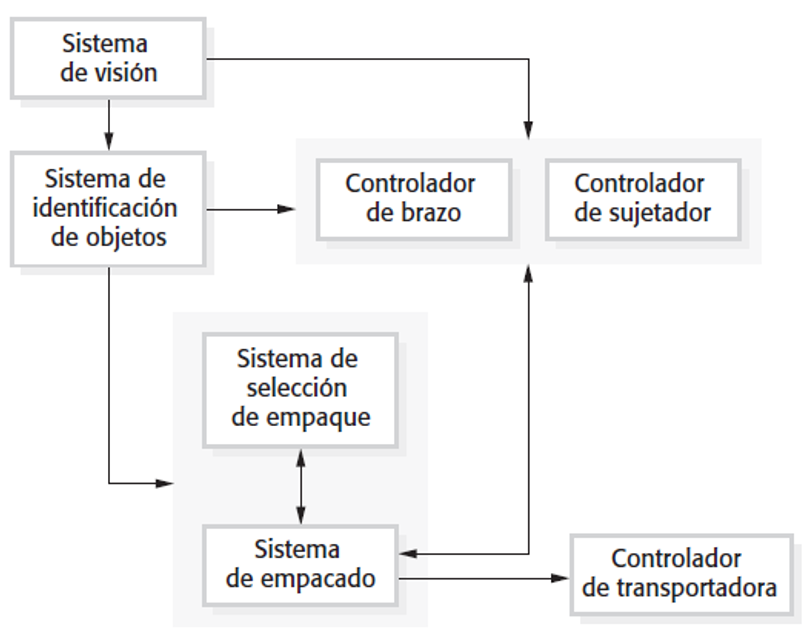
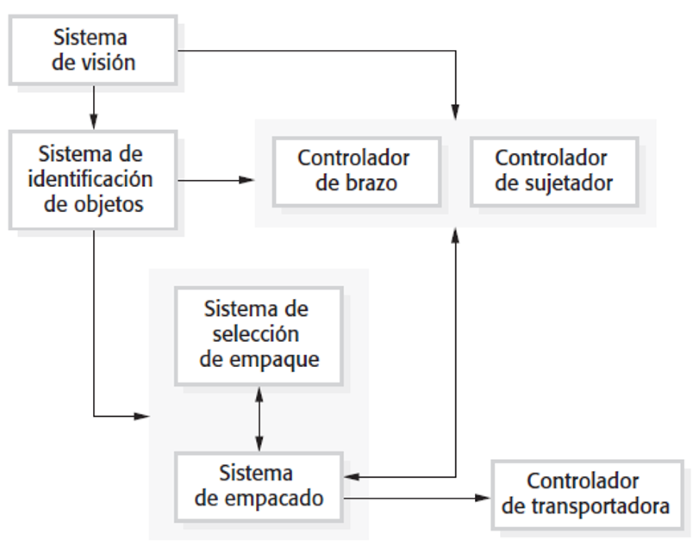
feat: changre presentation number

diff --git a/slides/index.html b/slides/index.html
@@ -182,13 +182,13 @@
         <a href="U10_disenio_arquitectonico.html">Unidad X: Diseño Arquitectónico</a>
         <br />
         <a href="U11_diseno_orientado_objetos.html">Unidad XI: Diseño Orientado a Objetos</a>
+         <br />
+        <a class="practico" href="U11_UML_diagrama_clase.html">
+          Diagrama de Clases
+        </a>
         <br />
         <a class="practico" href="U12_prototipado.html">
           Unidad XII: Diseño y Prototipado
-        </a>
-        <br />
-        <a class="practico" href="U8P_3_UML_diagrama_clase.html">
-          Diagrama de Clases
         </a>
         <br />
         <a href="U13_pruebas_de_software.html">Unidad XIII: Pruebas de Software</a>

diff --git a/slides/U10_disenio_arquitectonico.md b/slides/U10_disenio_arquitectonico.md
@@ -604,6 +604,9 @@ Compiladores o sistemas de procesamiento de datos donde los datos pasan por vari
 
 ---
 ### 8. Arquitectura de Espacio de Nombres
+
+https://medium.com/@mohamedsallam953/fundamentals-of-software-architecture-chapter-15-space-based-architecture-a67a8d4fd856
+
 Diseñada para sistemas altamente escalables y distribuidos, elimina la necesidad de una base de datos central y se basa 
 en "espacios" de datos que son replicados o fragmentados.
 
@@ -882,8 +885,7 @@ Cuando grandes cantidades de datos sean compartidos, el modelo de repositorio co
 - Centralización: Todos los módulos acceden a un repositorio común. 
 - Los datos centralizados permiten una integración sencilla entre componentes.
 - Manera eficaz de compartir grandes cantidades de datos
-- Sub-sistemas no tienen por qué preocuparse de cómo los datos se producen, ejemplo, la gestión centralizada,  
-  copia de seguridad, seguridad, etc
+- Sub-sistemas no tienen por qué preocuparse de cómo los datos se producen, ejemplo, la gestión centralizada, copia de seguridad, seguridad, etc
 - Un modelo a compartir se publica como el esquema del repositorio.
 
 ----
@@ -981,6 +983,7 @@ Es especialmente útil para sistemas donde el comportamiento varía según el es
 ----
 
 ### 19. Arquitectura de Máquina de Estados: Desventajas
+<!-- .slide: style="font-size: 0.80em" -->
 - **Complejidad:** Si hay demasiados estados o transiciones, el sistema puede volverse difícil de gestionar y escalar.
 - **Dificultad en cambios dinámicos:** Cambiar o agregar nuevos estados y transiciones puede ser complicado sin romper la lógica existente.
 - **Rígido:** No es ideal para sistemas donde el comportamiento no se puede describir fácilmente en términos de estados discretos.
@@ -1036,7 +1039,7 @@ El broker recibe solicitudes de los clientes y las envía al servidor adecuado p
 
 ### 21. Arquitectura Broker: Ventajas
 - **Escalabilidad:** Al ser todas las tareas ejecutadas independientes las unas de las otras es posible escalar 
-facilmente el sistema y sólo es necesario disponer de nuevos servidores que puedan procesar las peticiones del broker.
+fácilmente el sistema y sólo es necesario disponer de nuevos servidores que puedan procesar las peticiones del broker.
 - **Rendimiento:** Al ser un gran número de nodos conectados a lo que simplemente actúa como un puente con el cliente 
 el rendimiento puede mantenerse siempre en altas escalas ya que es posible redistribuir si es necesario y procesar 
 grandes cargas de peticiones en momentos de saturación.
@@ -1083,7 +1086,7 @@ fácilmente el sistema de forma que añadir nuevos nodos esclavos se termine tra
 ----
 
 ### 22. Arquitectura Master-Slave: Desventajas
-- **Implementación:** NDebe de existir la posibilidad de dividir el proyecto en módulos que puedan actuar aislados de 
+- **Implementación:** Debe de existir la posibilidad de dividir el proyecto en módulos que puedan actuar aislados de 
 la ejecución principal del programa.
 - **Dependencia:** Fuerte dependencia con el sistema en el que se haya implementado que en muchas ocasiones hace difícil 
 portarlo a otras máquinas distintas.
@@ -1126,7 +1129,7 @@ en términos de energía.
 ----
 
 ### 23. Arquitectura Serverless: Desventajas
-- **Latencia de Arranque en Frío:** cuando no han sido invocadas recientemente hay na latencia inicial, ya que el entorno 
+- **Latencia de Arranque en Frío:** cuando no han sido invocadas recientemente hay una latencia inicial, ya que el entorno 
 de ejecución debe iniciarse desde cero.
 - **Dependencia del Proveedor:** Como AWS, Azure o Google Cloud, dificultando la migración a otro proveedor en el futuro 
 debido a las características específicas y servicios propios de cada plataforma.
@@ -1138,7 +1141,7 @@ debido a las características específicas y servicios propios de cada plataform
 <!-- .slide: style="font-size: 0.90em" -->
 - **Menor Control sobre la Infraestructura:** Se pierde control sobre configuraciones personalizadas, optimizaciones 
 específicas del servidor o la ubicación geográfica precisa de los datos.
-- **Costos Inesperados con Alta Demanda:** Si el uso crece inesperada mente, los costos pueden escalar rápidamente, ya 
+- **Costos Inesperados con Alta Demanda:** Si el uso crece inesperadamente, los costos pueden escalar rápidamente, ya 
 que el modelo serverless cobra por cada invocación o uso de recursos.
 - **Complejidad en la Depuración y Monitoreo:** Puede dificultar el monitoreo y la depuración de problemas, 
 especialmente en sistemas complejos que dependen de múltiples funciones y servicios.
@@ -1187,12 +1190,16 @@ dominio de aplicación. Se desea reusar lo componentes en sistemas similares.
 
 ---
 ### Jerarquía
-Los estilos arquitectónicos pueden clasificarse en jerárquicos y no jerárquicos, según la forma en que organizan y 
-estructuran los componentes dentro del sistema.
+Los estilos arquitectónicos pueden clasificarse en jerárquicos y no jerárquicos, según la forma en que organizan y estructuran los componentes dentro del sistema.
+
+Hay jerarquía cuando encontramos:
+- Varias capas
+- Módulos
+- Dependencias
 
 ----
 
-### Ejercicio
+### Ejercicios
 Clasifica todos los diseños arquitectónicos vistos en clase en Jerarquicos o No Jerarquicos según corresponda.
 
 ----

diff --git a/slides/U11_UML_diagrama_clase.md b/slides/U11_UML_diagrama_clase.md
@@ -12,6 +12,7 @@ Created by <i class="fab fa-telegram"></i>
 ---
 
 ### Diagrama de clases
+<!-- .slide: style="font-size: 0.95em" -->
 El diagrama de clases es un diagrama de **estructura** de UML.
 
 Permite representar la estructura estática de un sistema, mostrando:
@@ -88,7 +89,7 @@ El nombre debería representar claramente el concepto que se está modelando.
 <!-- .slide: style="font-size: 0.90em" --> 
 Los atributos representan información o características que poseen los objetos de una clase.
 
-Por ejemplo, en la clase *Mascota** tenemos los atributos:
+Por ejemplo, en la clase *Mascota* tenemos los atributos:
 - nombre
 - fechaNacimiento
 - especie
@@ -104,10 +105,6 @@ Los atributos permiten describir el estado de los objetos.
 ### 3. Operaciones
 
 Las operaciones representan comportamientos o servicios que una clase puede proporcionar.
-
-Por ejemplo, en la clase *Mascota** tenemos los atributos:
-- nombre: String
-- especie: String
 
 Y tenemos las operaciones:
 - calcularEdad(): int
@@ -168,16 +165,21 @@ Los símbolos más utilizados son:
 ----
 
 ### Visibilidad
+<!-- .slide: style="font-size: 0.95em" --> 
 
-- Nombre: **Persona**
+\- Nombre: **Persona**
 
 **Atributos**
-- dni: String
-- nombre: String
+
+\- dni: String
+
+\- nombre: String
 
 **Operaciones**
-+ obtenerNombre(): String
-+ cambiarNombre(nombre: String): void
+
+\+ obtenerNombre(): String
+
+\+ cambiarNombre(nombre: String): void
 
 La visibilidad está relacionada con el principio de encapsulamiento de la programación orientada a objetos.
 
@@ -255,7 +257,7 @@ Una de ellas es el **análisis nombre/verbo**.
 Se analiza el texto de los requisitos buscando:
 
 1. **Sustantivos o frases nominales:** Pueden surgir clases y atributos
-2. **Verbos o frases verbales:** Pueden surgit operaciones, responsabilidades y relaciones
+2. **Verbos o frases verbales:** Pueden surgir operaciones, responsabilidades y relaciones
 
 ----
 
@@ -489,7 +491,7 @@ Es la relación que habitualmente asociamos con: **es un**
 
 ### Relación: 4. Herencia
 
-En programación orientada a objetos, una jerarquía de generalización se implementa habitualmente mediante herencia.
+En programación orientada a objetos, una **jerarquía de generalización** se implementa habitualmente mediante herencia.
 
 Una subclase hereda características de su superclase y puede:
 - utilizar los atributos y operaciones heredados
@@ -856,7 +858,7 @@ Persona "1" -- "0..*" Mascota : posee
 ----
 
 ### Herencia en PlantUML
-
+<!-- .slide: style="font-size: 0.90em" -->
 La generalización puede representarse mediante:
 ```
 @startuml

diff --git a/slides/U11_diseno_orientado_objetos.md b/slides/U11_diseno_orientado_objetos.md
@@ -33,39 +33,22 @@ Created by <i class="fab fa-telegram"></i>
 <div class="grid-item">
 
 ### Calidad del Software
-* Definición
-* Manejo de la calidad
-* Qué es calidad?
-* Compromiso de Calidad
-* Actividades de manejo de calidad
-* Atributos de la calidad del software
-* Calidad basada en procesos
-* Estándares de Software
-* Importancia de los estándares
-* Problemas con estándares
+* Objetos y Clases
+* Proceso de Diseño Orientado a Objetos
+* Evolución del Diseño
+* UML
+* Diagramas UML
 
 </div>
 <div class="grid-item">
 
-* ISO 9000-9001
-* Certificación ISO
-* Revisión
-* Procedimientos de Revisión
-* Revisiones de Calidad
-* Tipos de Revisiones
-* Inspecciones del programa
-* Métricas de calidad del producto
-* Suposición de métricas
-* Métricas estáticas de productos de software
-* Métricas Orientadas a Objetos
-* Métricas de acoplamiento
-* Madures de las métricas
+
 </div>
 </div>
 
 ---
 ### Objetos y clases
-En diseño orientado a objetos, los ****objetos** representan entidades con estado (atributos) y comportamiento (métodos). 
+En diseño orientado a objetos, los **objetos** representan entidades con estado (atributos) y comportamiento (métodos). 
 Las **clases** son sus plantillas.
 
 Permiten encapsulación, herencia y polimorfismo.
@@ -93,7 +76,7 @@ Posteriormente propusieron un enfoque orientado a objeto para diseñar derivacio
 ----
 
 ### Evolución del diseño
-Actualmente el énfasis al desarrollar software está en la arquitectura y en los patrones de diseño. 
+Actualmente el énfasis al desarrollar software está en la **arquitectura** y en los **patrones de diseño**. 
 
 Se pone cada vez más importancia a los métodos de desarrollo orientado al modelo y a las pruebas, con el objetivo de lograr una mejor modularidad.
 

diff --git a/slides/U12_prototipado.md b/slides/U12_prototipado.md
@@ -231,5 +231,9 @@ Emplee algún programa para confeccionar Wireframes ó y generar un wireflow par
 “Es mejor diseñar la experiencia del usuario que rectificarla.”</h3>
 
 ---
+
+![Prototipado](images/u12-prototipado/prototipado.png)
+
+---
 ## ¿Dudas, Preguntas, Comentarios?
 ![DUDAS](images/pregunta.gif)
